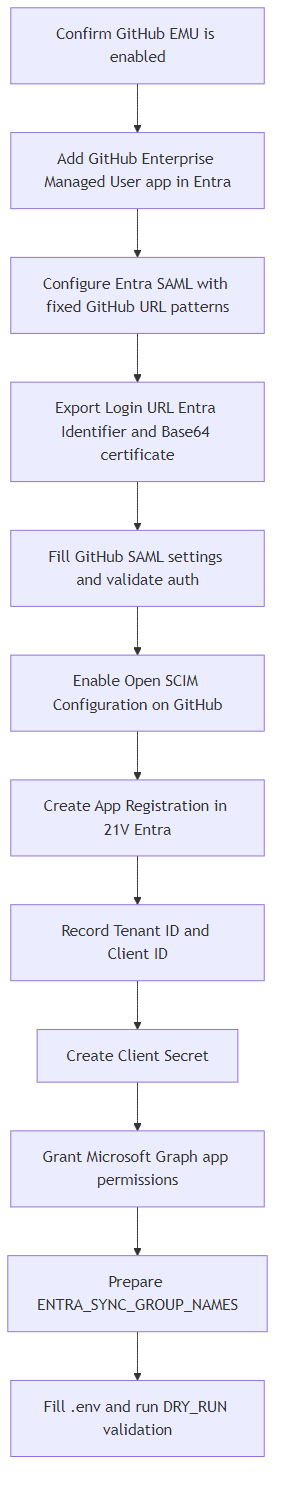
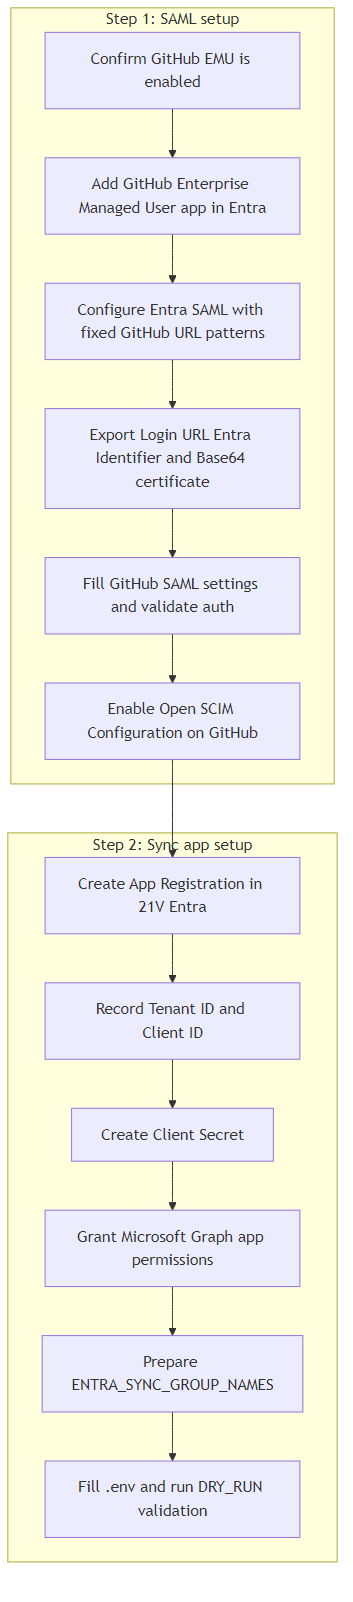
Refactor overall implementation sequence documentation to enhance clarity and organization
- Updated flowchart to separate SAML setup and sync app setup into distinct subgraphs for better readability.
- Modified SVG representation to improve visual layout and added descriptive titles and styles for better understanding.

- 'commit message generated by copilot + Zhuang'

diff --git a/docs/entra-id-app-registration-guide.md b/docs/entra-id-app-registration-guide.md
@@ -65,7 +65,7 @@ flowchart TD
 	K --> L[Fill .env and run DRY_RUN validation]
 ```
 
-![Overall implementation sequence](media/entra-id-app-registration-guide/overall-implementation-sequence.svg)
+<img src="media/entra-id-app-registration-guide/overall-implementation-sequence.svg" alt="Overall implementation sequence" width="1200" />
 
 Figure 2-1. Recommended end-to-end implementation sequence
 
@@ -140,12 +140,7 @@ flowchart LR
 ![Enterprise Application creation flow](media/entra-id-app-registration-guide/enterprise-app-gallery-creation-flow.svg)
 
 Figure 4-1. Create the GitHub Enterprise Managed User enterprise application from the Entra Gallery
-
-Add a real portal screenshot here to show the gallery search results and the application tile selection:
-
-![Enterprise Application search result placeholder](media/entra-id-app-registration-guide/enterprise-app-gallery-search-results-placeholder.svg)
-
-Figure 4-2. Recommended real screenshot: GitHub Enterprise Managed User search result in the Entra Gallery
+<!-- TODO(doc-internal): add screenshot figure 4-2 using media/entra-id-app-registration-guide/enterprise-app-gallery-search-results-placeholder.svg; replace with a real Entra Gallery search result screenshot before the next documentation refresh. -->
 
 ### 4.2 Switch the Enterprise App to SAML and fill the fixed URL patterns
 
@@ -223,12 +218,7 @@ The distinction between 4.2 and 4.3 is important:
 - In 4.3, you copy the IdP outputs generated by Entra back into GitHub
 
 Once GitHub is configured with these Entra outputs, the SAML authentication chain is in place.
-
-Add a GitHub-side screenshot here to reduce context switching when the operator fills the values back into GitHub:
-
-![GitHub SAML fields placeholder](media/entra-id-app-registration-guide/github-saml-settings-fields-placeholder.svg)
-
-Figure 4-6. Recommended real screenshot: GitHub enterprise SAML settings page with Sign-on URL, Issuer, and Public Certificate fields
+<!-- TODO(doc-internal): add screenshot figure 4-6 using media/entra-id-app-registration-guide/github-saml-settings-fields-placeholder.svg; replace with a real GitHub SAML settings screenshot. -->
 
 ### 4.4 Claims and NameID considerations
 
@@ -268,12 +258,7 @@ Notes:
 - This only controls who can sign in through the Enterprise Application
 - It does not define the Graph read scope for this project
 - It does not define SCIM provisioning scope by itself
-
-Add a real screenshot here to show the test user assignment and the Enterprise Owner role selection:
-
-![Enterprise Owner assignment placeholder](media/entra-id-app-registration-guide/enterprise-app-user-assignment-enterprise-owner-placeholder.svg)
-
-Figure 4-8. Recommended real screenshot: test user assignment with the Enterprise Owner role
+<!-- TODO(doc-internal): add screenshot figure 4-8 using media/entra-id-app-registration-guide/enterprise-app-user-assignment-enterprise-owner-placeholder.svg; replace with a real Enterprise Owner assignment screenshot. -->
 
 ### 4.6 Finish the GitHub side of the setup
 
@@ -356,12 +341,7 @@ Example:
 ENTRA_TENANT_ID=xxxxxxxx-xxxx-xxxx-xxxx-xxxxxxxxxxxx
 ENTRA_CLIENT_ID=xxxxxxxx-xxxx-xxxx-xxxx-xxxxxxxxxxxx
 ```
-
-Add a real screenshot here to highlight Application (client) ID and Directory (tenant) ID on the Overview page:
-
-![Overview IDs placeholder](media/entra-id-app-registration-guide/app-registration-overview-ids-placeholder.svg)
-
-Figure 5-2. Recommended real screenshot: Tenant ID and Client ID on the App Registration Overview page
+<!-- TODO(doc-internal): add screenshot figure 5-2 using media/entra-id-app-registration-guide/app-registration-overview-ids-placeholder.svg; replace with a real Overview IDs screenshot. -->
 
 ### 5.3 Create Client Secret
 
@@ -383,12 +363,7 @@ Example:
 ```dotenv
 ENTRA_CLIENT_SECRET=your-secret-value
 ```
-
-Add a real screenshot here to make it explicit that the operator must copy Value instead of Secret ID:
-
-![Client Secret Value placeholder](media/entra-id-app-registration-guide/client-secret-value-copy-placeholder.svg)
-
-Figure 5-3. Recommended real screenshot: the Value field on the Client Secret page
+<!-- TODO(doc-internal): add screenshot figure 5-3 using media/entra-id-app-registration-guide/client-secret-value-copy-placeholder.svg; replace with a real Client Secret Value screenshot. -->
 
 ## 6. Grant Microsoft Graph application permissions
 
@@ -423,12 +398,7 @@ After adding application permissions, you must select:
 - `Grant admin consent`
 
 Otherwise, token acquisition may work while Graph reads still fail or return incomplete data.
-
-Add a real screenshot here to show the permission list and the Grant admin consent action:
-
-![API permissions admin consent placeholder](media/entra-id-app-registration-guide/api-permissions-admin-consent-placeholder.svg)
-
-Figure 6-1. Recommended real screenshot: API permissions and Grant admin consent
+<!-- TODO(doc-internal): add screenshot figure 6-1 using media/entra-id-app-registration-guide/api-permissions-admin-consent-placeholder.svg; replace with a real API permissions screenshot. -->
 
 ## 7. Prepare the sync group configuration
 
@@ -444,12 +414,7 @@ Example:
 ```dotenv
 ENTRA_SYNC_GROUP_NAMES=GitHub-EMU-Platform,GitHub-EMU-SRE,SanhuaGroup
 ```
-
-Add a real screenshot here to show the exact group display names used in ENTRA_SYNC_GROUP_NAMES:
-
-![Group displayName placeholder](media/entra-id-app-registration-guide/entra-groups-display-name-placeholder.svg)
-
-Figure 7-1. Recommended real screenshot: Entra group displayName values used in ENTRA_SYNC_GROUP_NAMES
+<!-- TODO(doc-internal): add screenshot figure 7-1 using media/entra-id-app-registration-guide/entra-groups-display-name-placeholder.svg; replace with a real Entra Groups screenshot. -->
 
 Important behavior:
 
@@ -597,41 +562,29 @@ Common causes:
 - `ENTRA_SYNC_GROUP_NAMES` uses the wrong display name
 - Duplicate names cause ambiguous resolution
 
-## 12. Visual completeness and replacement checklist
+## 12. Visual maintenance notes
 
-The guide now has a delivery-ready visual structure with two kinds of assets:
+The public guide now shows only final diagrams and real screenshots that are ready for external readers.
 
-1. Final diagrams or real screenshots that are already ready for readers
-2. Placeholder images already inserted at the correct steps and ready to be overwritten with real screenshots
+If more real portal screenshots are added later, prioritize these operator touchpoints:
 
-### 12.1 Final diagrams and real screenshots already in place
+1. The Entra Gallery search result for GitHub Enterprise Managed User
+2. The GitHub enterprise SAML settings page
+3. The Enterprise App test user assignment and Enterprise Owner role page
+4. The App Registration Overview page with Tenant ID and Client ID
+5. The Client Secret page showing the Value field
+6. The API permissions page with Grant admin consent
+7. The Entra Groups page with the exact displayName values used in ENTRA_SYNC_GROUP_NAMES
 
-1. Figure 1-1: Responsibility boundary between the two Entra objects
-2. Figure 2-1: Overall implementation sequence
-3. Figure 4-1: Enterprise Application creation flow
-4. Figure 4-3: Basic SAML Configuration edit entry point
-5. Figure 4-4: Base64 certificate download location
-6. Figure 4-5: Entra SSO output values
-7. Figure 4-7: SAML and SCIM identity linking
-8. Figure 5-1: App Registration overview structure
-9. Figure 10-1: Validation sequence
-
-### 12.2 Placeholder images to replace with real screenshots
-
-1. Figure 4-2: Entra Gallery search result for GitHub Enterprise Managed User
-	Suggested filename: media/entra-id-app-registration-guide/enterprise-app-gallery-search-results-placeholder.svg
-2. Figure 4-6: GitHub enterprise SAML settings fields page
-	Suggested filename: media/entra-id-app-registration-guide/github-saml-settings-fields-placeholder.svg
-3. Figure 4-8: Enterprise App test user assignment with Enterprise Owner role
-	Suggested filename: media/entra-id-app-registration-guide/enterprise-app-user-assignment-enterprise-owner-placeholder.svg
-4. Figure 5-2: App Registration Overview with Tenant ID and Client ID
-	Suggested filename: media/entra-id-app-registration-guide/app-registration-overview-ids-placeholder.svg
-5. Figure 5-3: Client Secret page showing the Value field
-	Suggested filename: media/entra-id-app-registration-guide/client-secret-value-copy-placeholder.svg
-6. Figure 6-1: API permissions and Grant admin consent
-	Suggested filename: media/entra-id-app-registration-guide/api-permissions-admin-consent-placeholder.svg
-7. Figure 7-1: Entra Groups page with the exact displayName values
-	Suggested filename: media/entra-id-app-registration-guide/entra-groups-display-name-placeholder.svg
+<!-- Internal screenshot replacement map:
+Figure 4-2 -> media/entra-id-app-registration-guide/enterprise-app-gallery-search-results-placeholder.svg
+Figure 4-6 -> media/entra-id-app-registration-guide/github-saml-settings-fields-placeholder.svg
+Figure 4-8 -> media/entra-id-app-registration-guide/enterprise-app-user-assignment-enterprise-owner-placeholder.svg
+Figure 5-2 -> media/entra-id-app-registration-guide/app-registration-overview-ids-placeholder.svg
+Figure 5-3 -> media/entra-id-app-registration-guide/client-secret-value-copy-placeholder.svg
+Figure 6-1 -> media/entra-id-app-registration-guide/api-permissions-admin-consent-placeholder.svg
+Figure 7-1 -> media/entra-id-app-registration-guide/entra-groups-display-name-placeholder.svg
+-->
 
 If you update the Mermaid diagrams later, you can re-render them with:
 

diff --git a/docs/entra-id-app-registration-guide.zh-cn.md b/docs/entra-id-app-registration-guide.zh-cn.md
@@ -65,7 +65,7 @@ flowchart TD
     K --> L[填写 .env 并执行 DRY_RUN 验证]
 ```
 
-![总体实施顺序图](media/entra-id-app-registration-guide/overall-implementation-sequence.svg)
+<img src="media/entra-id-app-registration-guide/overall-implementation-sequence.svg" alt="总体实施顺序图" width="1200" />
 
 图 2-1. 建议的端到端实施顺序
 
@@ -142,12 +142,7 @@ flowchart LR
 ![Enterprise Application 创建路径图](media/entra-id-app-registration-guide/enterprise-app-gallery-creation-flow.svg)
 
 图 4-1. 从 Entra Gallery 创建 GitHub Enterprise Managed User 企业应用
-
-建议在这里补一张真实门户截图，展示搜索结果页中如何选中 GitHub Enterprise Managed User：
-
-![Enterprise Application 搜索结果占位图](media/entra-id-app-registration-guide/enterprise-app-gallery-search-results-placeholder.svg)
-
-图 4-2. 建议补充的真实截图：Entra Gallery 中的 GitHub Enterprise Managed User 搜索结果
+<!-- TODO(doc-internal): add screenshot figure 4-2 using media/entra-id-app-registration-guide/enterprise-app-gallery-search-results-placeholder.svg; replace with a real Entra Gallery search result screenshot before the next documentation refresh. -->
 
 ### 4.2 把 Enterprise App 切到 SAML Single Sign-On，并按固定格式填写
 
@@ -225,12 +220,7 @@ flowchart LR
 - 4.3 回填的是 Entra 生成出来的 IdP 输出值
 
 完成 GitHub 侧 SAML 配置后，认证链路才算打通。
-
-建议在这里补一张 GitHub 企业侧页面截图，减少回填字段时的来回切换成本：
-
-![GitHub SAML 字段占位图](media/entra-id-app-registration-guide/github-saml-settings-fields-placeholder.svg)
-
-图 4-6. 建议补充的真实截图：GitHub enterprise SAML 配置页中的 Sign-on URL、Issuer、Public Certificate 字段
+<!-- TODO(doc-internal): add screenshot figure 4-6 using media/entra-id-app-registration-guide/github-saml-settings-fields-placeholder.svg; replace with a real GitHub SAML settings screenshot. -->
 
 ### 4.4 配置声明与 NameID
 
@@ -272,12 +262,7 @@ flowchart TD
 - 这一步只影响“谁能通过该 Enterprise App 做 SAML 登录”
 - 不等于本项目的 Graph 读取范围
 - 不等于 GitHub SCIM provisioning 范围
-
-建议在这里补一张真实截图，展示测试用户分配到 Enterprise Owner 角色的页面：
-
-![Enterprise Owner 分配占位图](media/entra-id-app-registration-guide/enterprise-app-user-assignment-enterprise-owner-placeholder.svg)
-
-图 4-8. 建议补充的真实截图：Enterprise App 中测试用户与 Enterprise Owner 角色分配
+<!-- TODO(doc-internal): add screenshot figure 4-8 using media/entra-id-app-registration-guide/enterprise-app-user-assignment-enterprise-owner-placeholder.svg; replace with a real Enterprise Owner assignment screenshot. -->
 
 ### 4.6 GitHub 端再做两件事
 
@@ -362,12 +347,7 @@ flowchart LR
 ENTRA_TENANT_ID=xxxxxxxx-xxxx-xxxx-xxxx-xxxxxxxxxxxx
 ENTRA_CLIENT_ID=xxxxxxxx-xxxx-xxxx-xxxx-xxxxxxxxxxxx
 ```
-
-建议在这里补一张真实截图，直接标出 Overview 页上的 Application (client) ID 与 Directory (tenant) ID：
-
-![Overview ID 占位图](media/entra-id-app-registration-guide/app-registration-overview-ids-placeholder.svg)
-
-图 5-2. 建议补充的真实截图：App Registration Overview 中的 Tenant ID 与 Client ID
+<!-- TODO(doc-internal): add screenshot figure 5-2 using media/entra-id-app-registration-guide/app-registration-overview-ids-placeholder.svg; replace with a real Overview IDs screenshot. -->
 
 ### 5.3 创建 Client Secret
 
@@ -397,12 +377,7 @@ ENTRA_CLIENT_ID=xxxxxxxx-xxxx-xxxx-xxxx-xxxxxxxxxxxx
 ```dotenv
 ENTRA_CLIENT_SECRET=your-secret-value
 ```
-
-建议在这里补一张真实截图，强调必须复制 Value 而不是 Secret ID：
-
-![Client Secret Value 占位图](media/entra-id-app-registration-guide/client-secret-value-copy-placeholder.svg)
-
-图 5-3. 建议补充的真实截图：Client Secret 页面中应复制的 Value 字段
+<!-- TODO(doc-internal): add screenshot figure 5-3 using media/entra-id-app-registration-guide/client-secret-value-copy-placeholder.svg; replace with a real Client Secret Value screenshot. -->
 
 ## 6. 给 App Registration 配置 Microsoft Graph 应用权限
 
@@ -447,12 +422,7 @@ ENTRA_CLIENT_SECRET=your-secret-value
 
 - token 可以获取，但 Graph 返回 403
 - 返回字段不完整
-
-建议在这里补一张真实截图，展示权限列表和 Grant admin consent 按钮：
-
-![API 权限管理员同意占位图](media/entra-id-app-registration-guide/api-permissions-admin-consent-placeholder.svg)
-
-图 6-1. 建议补充的真实截图：API permissions 与 Grant admin consent
+<!-- TODO(doc-internal): add screenshot figure 6-1 using media/entra-id-app-registration-guide/api-permissions-admin-consent-placeholder.svg; replace with a real API permissions screenshot. -->
 
 ## 7. 准备同步组配置
 
@@ -468,12 +438,7 @@ ENTRA_CLIENT_SECRET=your-secret-value
 ```dotenv
 ENTRA_SYNC_GROUP_NAMES=GitHub-EMU-Platform,GitHub-EMU-SRE,SanhuaGroup
 ```
-
-建议在这里补一张真实截图，展示 Groups 列表中的 displayName：
-
-![Groups displayName 占位图](media/entra-id-app-registration-guide/entra-groups-display-name-placeholder.svg)
-
-图 7-1. 建议补充的真实截图：用于 ENTRA_SYNC_GROUP_NAMES 的 Entra 组 displayName
+<!-- TODO(doc-internal): add screenshot figure 7-1 using media/entra-id-app-registration-guide/entra-groups-display-name-placeholder.svg; replace with a real Entra Groups screenshot. -->
 
 重要语义：
 
@@ -628,41 +593,29 @@ DRY_RUN=false
 - `ENTRA_SYNC_GROUP_NAMES` 写错 displayName
 - 同名组导致解析歧义
 
-## 12. 配图完成度与替换清单
+## 12. 配图维护说明
 
-当前文档已经具备“可直接交付”的配图骨架，共分两类：
+当前文档对外仅展示正式流程图和已采集的真实截图，避免把内部待补素材直接暴露给外部读者。
 
-1. 已有正式图或真实截图，可直接用于客户阅读
-2. 已经插入到正确步骤中的占位图，等待你用真实门户截图同名覆盖
+如果后续补充新的真实门户截图，建议优先覆盖以下操作节点：
 
-### 12.1 已完成的正式图与真实截图
+1. Entra Gallery 中的 GitHub Enterprise Managed User 搜索结果
+2. GitHub enterprise SAML 字段回填页
+3. Enterprise App 测试用户与 Enterprise Owner 角色分配页
+4. App Registration Overview 中的 Tenant ID 与 Client ID
+5. Client Secret 页面中的 Value 字段
+6. API permissions 与 Grant admin consent 页面
+7. Entra Groups 中用于 ENTRA_SYNC_GROUP_NAMES 的 displayName 列表
 
-1. 图 1-1：两个 Entra 对象的职责边界图
-2. 图 2-1：总体实施顺序图
-3. 图 4-1：Enterprise Application 创建路径图
-4. 图 4-3：Basic SAML Configuration 编辑入口截图
-5. 图 4-4：Base64 certificate 下载位置截图
-6. 图 4-5：Entra SSO 输出值截图
-7. 图 4-7：SAML 与 SCIM 关联图
-8. 图 5-1：App Registration 结构图
-9. 图 10-1：联调与验证顺序图
-
-### 12.2 待你补真实截图并直接覆盖的占位图
-
-1. 图 4-2：Entra Gallery 搜索 GitHub Enterprise Managed User
-    建议文件名：media/entra-id-app-registration-guide/enterprise-app-gallery-search-results-placeholder.svg
-2. 图 4-6：GitHub enterprise SAML 字段页
-    建议文件名：media/entra-id-app-registration-guide/github-saml-settings-fields-placeholder.svg
-3. 图 4-8：Enterprise App 用户与 Enterprise Owner 分配页
-    建议文件名：media/entra-id-app-registration-guide/enterprise-app-user-assignment-enterprise-owner-placeholder.svg
-4. 图 5-2：App Registration Overview 中的 Tenant ID / Client ID
-    建议文件名：media/entra-id-app-registration-guide/app-registration-overview-ids-placeholder.svg
-5. 图 5-3：Client Secret Value 复制页
-    建议文件名：media/entra-id-app-registration-guide/client-secret-value-copy-placeholder.svg
-6. 图 6-1：API permissions 与 Grant admin consent
-    建议文件名：media/entra-id-app-registration-guide/api-permissions-admin-consent-placeholder.svg
-7. 图 7-1：Entra Groups 中的 displayName 列表
-    建议文件名：media/entra-id-app-registration-guide/entra-groups-display-name-placeholder.svg
+<!-- Internal screenshot replacement map:
+Figure 4-2 -> media/entra-id-app-registration-guide/enterprise-app-gallery-search-results-placeholder.svg
+Figure 4-6 -> media/entra-id-app-registration-guide/github-saml-settings-fields-placeholder.svg
+Figure 4-8 -> media/entra-id-app-registration-guide/enterprise-app-user-assignment-enterprise-owner-placeholder.svg
+Figure 5-2 -> media/entra-id-app-registration-guide/app-registration-overview-ids-placeholder.svg
+Figure 5-3 -> media/entra-id-app-registration-guide/client-secret-value-copy-placeholder.svg
+Figure 6-1 -> media/entra-id-app-registration-guide/api-permissions-admin-consent-placeholder.svg
+Figure 7-1 -> media/entra-id-app-registration-guide/entra-groups-display-name-placeholder.svg
+-->
 
 如果后续修改了本文中的 Mermaid 图，可以运行下面的脚本一键重新导出图片：
 